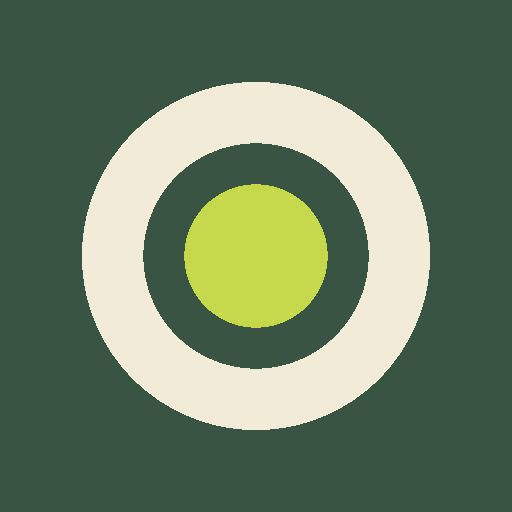
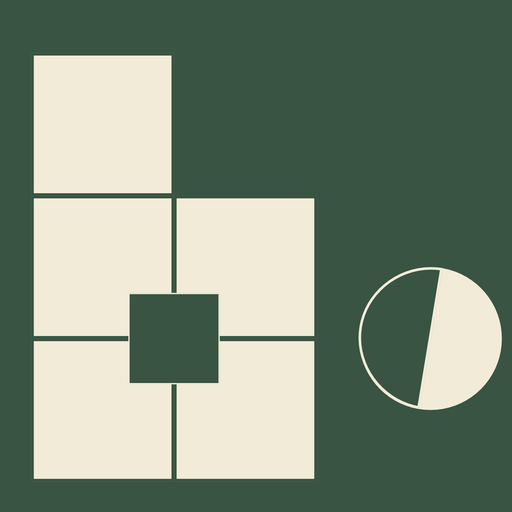
fourth build

diff --git a/js/results.js b/js/results.js
@@ -2,7 +2,7 @@
 (()=>{
 const S=Store,uid=()=>Math.random().toString(36).slice(2,8);
 const esc=s=>String(s??'').replace(/[&<>"]/g,c=>({'&':'&amp;','<':'&lt;','>':'&gt;','"':'&quot;'}[c]));
-const head=(t,s)=>`<h1>${t}</h1><p class="sub">${s}</p>`;
+const head=t=>`<h1>${t}</h1>`;
 const pct=(a,b)=>b?Math.round(a/b*1000)/10:0,f1=x=>Math.round(x*10)/10;
 let tab='overview',cf='';const cn=c=>(S.data().classes.find(x=>x.code===c)||{name:'Class '+c}).name;
 const keyed=q=>Sheet.items(q).filter(i=>q.key[i.no]);
@@ -32,23 +32,23 @@ V.R.results=id=>{
  }else{
   o+=`<div class="tbl"><table><tr><th>ID</th><th>Name</th><th>Score</th><th>%</th><th></th></tr>${[...ps].sort((x,y)=>String(x.sid).localeCompare(y.sid)).map(p=>{const s=score(q,p);return `<tr><td class="id">${esc(p.sid)||'-'}</td><td>${esc(who(p.sid)||'Unknown')}</td><td>${s.r}/${s.t}</td><td>${s.p}%</td><td><a class="btn" href="#/paper/${q.id}/${p.id}">Review</a></td></tr>`}).join('')}</table></div>`;
  }
- return h+`<div class="row"><a class="btn" href="#/results">All results</a><button class="btn pri" data-a="addPaper" data-id="${q.id}">Add paper</button><button class="btn" data-a="csv" data-id="${q.id}">Export CSV</button>${cls.length>1?`<select data-r="cf" aria-label="Class filter"><option value="">All classes</option>${cls.map(c=>`<option value="${c}"${c===cfv?' selected':''}>${esc(cn(c))}</option>`).join('')}</select>`:''}</div><div class="row">${T('overview','Overview')}${T('item','By item')}${T('student','By student')}</div>`+o;
+ return h+`<div class="row"><button class="btn pri" data-a="addPaper" data-id="${q.id}">Add paper</button><button class="btn" data-a="csv" data-id="${q.id}">Export CSV</button>${cls.length>1?`<select data-r="cf" aria-label="Class filter"><option value="">All classes</option>${cls.map(c=>`<option value="${c}"${c===cfv?' selected':''}>${esc(cn(c))}</option>`).join('')}</select>`:''}</div><div class="row">${T('overview','Overview')}${T('item','By item')}${T('student','By student')}</div>`+o;
 };
 
 V.R.paper=(qid,pid)=>{
  const q=S.quiz(qid),p=q&&(q.papers||[]).find(x=>x.id===pid);if(!p)return'<p>Paper not found.</p>';
  const s=score(q,p),nm=who(p.sid);
  const it=i=>{const k=q.key[i.no];return `<div class="it${p.multi&&p.multi[i.no]?' multi':''}"><b>${i.no}</b>${Array.from({length:i.opts},(_,j)=>{const l=Sheet.lab(i.tf,j),on=p.answers[i.no]===l;return `<button class="o${on?(k?(l===k?' ok':' bad'):' on'):''}${k===l?' key':''}" data-a="ans" data-q="${q.id}" data-id="${p.id}" data-n="${i.no}" data-l="${l}">${l}</button>`}).join('')}</div>`};
- return `<a href="#/results/${q.id}">Back to results</a>`+head(`${s.r} / ${s.t} = ${s.p}%`,esc(nm||(p.sid?'ID not in roster':'No ID yet')))+(p.crop?`<img class="crop" alt="Handwritten name" src="${p.crop}">`:'')+
+ return `<a href="#/quiz/${q.id}/results">Back to results</a>`+head(`${s.r} / ${s.t} = ${s.p}%`,esc(nm||(p.sid?'ID not in roster':'No ID yet')))+(p.crop?`<img class="crop" alt="Handwritten name" src="${p.crop}">`:'')+
  `<div class="row"><label>Student ID <input data-p="sid" data-q="${q.id}" data-id="${p.id}" value="${esc(p.sid)}" placeholder="XX-XX" size="6"></label><button class="btn del" data-a="delPaper" data-q="${q.id}" data-id="${p.id}">Delete paper</button></div>
- <p class="sub">Click a bubble to change an answer. Green = correct, red = wrong, thick ring = the key, yellow row = more than one bubble was marked.</p><div class="items">${Sheet.items(q).map(it).join('')}</div>`;
+ <p class="sub">Tap a bubble to change it. Green correct, red wrong, ring = key, yellow = multiple marks.</p><div class="items">${Sheet.items(q).map(it).join('')}</div>`;
 };
 
 Object.assign(V.A,{
  tab:d=>{tab=d.t;App.render()},
  addPaper:d=>{const q=S.quiz(d.id),p={id:uid(),sid:'',answers:{},at:Date.now()};(q.papers=q.papers||[]).push(p);S.save();location.hash=`#/paper/${q.id}/${p.id}`},
  ans:d=>{const p=S.quiz(d.q).papers.find(x=>x.id===d.id);if(p.answers[d.n]===d.l)delete p.answers[d.n];else p.answers[d.n]=d.l;S.save();const y=scrollY;App.render();scrollTo(0,y)},
- delPaper:d=>{if(!confirm('Delete this paper?'))return;const q=S.quiz(d.q);q.papers=q.papers.filter(x=>x.id!==d.id);S.save();location.hash='#/results/'+q.id},
+ delPaper:d=>{if(!confirm('Delete this paper?'))return;const q=S.quiz(d.q);q.papers=q.papers.filter(x=>x.id!==d.id);S.save();location.hash='#/quiz/'+q.id+'/results'},
  csv:d=>{const q=S.quiz(d.id),its=Sheet.items(q),rows=[['ID','Name','Score','Total','Percent',...its.map(i=>'Q'+i.no)],['','','','','Key',...its.map(i=>q.key[i.no]||'')]];
   (q.papers||[]).forEach(p=>{const s=score(q,p);rows.push([p.sid,who(p.sid)||'',s.r,s.t,s.p,...its.map(i=>p.answers[i.no]||'')])});
   const a=document.createElement('a');a.href=URL.createObjectURL(new Blob(['\ufeff'+rows.map(r=>r.map(c=>`"${String(c).replace(/"/g,'""')}"`).join(',')).join('\r\n')],{type:'text/csv'}));a.download=q.name.replace(/\W+/g,'_')+'.csv';a.click()},
@@ -57,7 +57,7 @@ Object.assign(V.A,{
   const q=S.addQuiz(),L='ABCD';q.name='Sample quiz';q.classId=c.id;q.papers=[];
   for(let i=1;i<=10;i++)q.key[i]=L[Math.random()*4|0];
   c.students.forEach(s=>{const a={};for(let i=1;i<=10;i++)a[i]=Math.random()<.6?q.key[i]:L[Math.random()*4|0];q.papers.push({id:uid(),sid:c.code+'-'+s.no,answers:a,at:Date.now()})});
-  S.save();location.hash='#/results/'+q.id}
+  S.save();location.hash='#/quiz/'+q.id+'/results'}
 });
 
 const prev=V.change;

diff --git a/js/quiz.js b/js/quiz.js
@@ -1,0 +1,58 @@
+// Quiz hub: Edit / Sheets / Scan / Results all live inside each quiz. Also Home, Class and Student pages.
+(()=>{
+const S=Store,E=V.R.quiz,SH=V.R.sheet,SC=V.R.scan,RS=V.R.results;
+const esc=s=>String(s??'').replace(/[&<>"]/g,c=>({'&':'&amp;','<':'&lt;','>':'&gt;','"':'&quot;'}[c]));
+const STEPS=[['edit','Edit'],['sheets','Sheets'],['scan','Scan'],['results','Results']];
+const sc=(q,p)=>{const k=Sheet.items(q).filter(i=>q.key[i.no]),r=k.filter(i=>p.answers[i.no]===q.key[i.no]).length;return{r,t:k.length,v:k.length?r/k.length*100:0}};
+const strip=h=>h.replace(/^<a href="[^"]*">[^<]*<\/a>/,'').replace(/<h1>.*?<\/h1>(<p class="sub">.*?<\/p>)?/s,'');
+
+const hub=q=>{
+ const it=Sheet.items(q),k=it.filter(i=>q.key[i.no]).length,ps=q.papers||[],o=Sheet.opts(q);
+ const mean=ps.length?Math.round(ps.reduce((a,p)=>a+sc(q,p).v,0)/ps.length):0;
+ const c=(s,t,d)=>`<a class="card hub" href="#/quiz/${q.id}/${s}"><b>${t}</b>${d}</a>`;
+ return `<div class="grid hubs">${c('edit','Edit quiz',`${it.length} items, key ${k}/${it.length}`)}${c('sheets','Prepare sheets',`${o.paper}, ${o.copies} ${o.copies>1?'copies':'copy'}`)}${c('scan','Scan papers','Camera or photos')}${c('results','View results',ps.length?`${ps.length} papers, mean ${mean}%`:'No papers yet')}</div>
+ <div class="row"><button class="btn" data-a="dupQuiz" data-id="${q.id}">Duplicate quiz</button></div>`;
+};
+
+V.R.quiz=(id,step)=>{
+ const q=S.quiz(id);if(!q)return'<p>Quiz not found.</p>';
+ let b;
+ if(step==='edit')b=strip(E(id));
+ else if(step==='sheets')b=strip(SH(id));
+ else if(step==='scan'){V.setScan(id);b=strip(SC())}
+ else if(step==='results')b=strip(RS(id));
+ else b=hub(q);
+ const d=QList.first(q);
+ return `<a href="#/quizzes">‹ Quizzes</a><h1>${step?`<a href="#/quiz/${q.id}" class="plain">${esc(q.name)}</a>`:esc(q.name)}</h1>
+ <div class="meta">${esc(QList.cname(q))||'No class'}${d?' · first scanned '+QList.fmt(d):''}</div>
+ ${step?`<div class="steps">${STEPS.map(([s,t])=>`<a class="tg${s===step?' on':''}" href="#/quiz/${q.id}/${s}">${t}</a>`).join('')}</div>`:''}${b}`;
+};
+V.R.sheet=id=>V.R.quiz(id,'sheets');
+V.R.scan=()=>V.R.quizzes();
+V.R.results=id=>id?V.R.quiz(id,'results'):V.R.quizzes();
+
+V.R.home=()=>{
+ const d=S.data(),n=d.classes.reduce((a,c)=>a+c.students.length,0),rec=d.quizzes.slice(0,4);
+ return `<div class="row"><h1 style="margin:0;flex:1">Home</h1><button class="btn pri" data-a="newQuiz">New quiz</button></div>
+ <div class="stats"><div class="card"><b>${d.classes.length}</b>Classes</div><div class="card"><b>${n}</b>Students</div><div class="card"><b>${d.quizzes.length}</b>Quizzes</div></div>
+ ${rec.length?`<h2>Recent quizzes</h2><div class="grid">${rec.map(q=>QList.card(q)).join('')}</div>`:''}`;
+};
+
+const hist=(c,s)=>{const sid=c.code+'-'+s.no,r=[];
+ S.data().quizzes.forEach(q=>(q.papers||[]).forEach(p=>{if(p.sid===sid)r.push({q,p,s:sc(q,p),at:p.at})}));
+ return r.sort((a,b)=>b.at-a.at)};
+const avg=h=>h.length?Math.round(h.reduce((a,x)=>a+x.s.v,0)/h.length):'-';
+V.R.class=id=>{
+ const c=S.cls(id);if(!c)return'<p>Class not found.</p>';
+ return `<a href="#/classes">‹ Classes</a><h1>${esc(c.name)}</h1><div class="meta">Class code ${c.code}</div>
+ <div class="row"><button class="btn pri" data-a="addStudent" data-id="${c.id}">Add student</button><button class="btn del" data-a="delClass" data-id="${c.id}">Delete class</button></div>
+ <div class="tbl"><table><tr><th>ID</th><th>Name</th><th>Quizzes</th><th>Avg %</th><th></th></tr>${c.students.map(s=>{const h=hist(c,s);
+  return `<tr><td class="id">${c.code}-${s.no}</td><td><a href="#/student/${c.id}/${s.id}">${esc(s.name)}</a></td><td>${h.length}</td><td>${avg(h)}</td><td><button class="btn del" data-a="delStudent" data-id="${c.id}" data-s="${s.id}">Remove</button></td></tr>`}).join('')}</table></div>`;
+};
+V.R.student=(cid,sid)=>{
+ const c=S.cls(cid),s=c&&c.students.find(x=>x.id===sid);if(!s)return'<p>Student not found.</p>';
+ const h=hist(c,s);
+ return `<a href="#/class/${c.id}">‹ ${esc(c.name)}</a><h1>${esc(s.name)}</h1><div class="meta">${c.code}-${s.no} · ${h.length} quizzes · average ${avg(h)}%</div>
+ <div class="tbl"><table><tr><th>Quiz</th><th>Date</th><th>Score</th><th></th></tr>${h.map(x=>`<tr><td>${esc(x.q.name)}</td><td>${QList.fmt(x.at)}</td><td>${x.s.r}/${x.s.t} (${Math.round(x.s.v)}%)</td><td><a class="btn" href="#/paper/${x.q.id}/${x.p.id}">Review</a></td></tr>`).join('')||'<tr><td colspan="4">No scanned papers yet.</td></tr>'}</table></div>`;
+};
+})();

diff --git a/js/lists.js b/js/lists.js
@@ -19,10 +19,8 @@ const items=()=>{
  const a=S.data().quizzes.filter(q=>(!k||q.name.toLowerCase().includes(k))&&(!f.tag||(q.tags||[]).includes(f.tag))&&(!f.cls||clsOf(q).some(c=>c.id===f.cls)));
  return a.sort({new:(x,y)=>when(y)-when(x),old:(x,y)=>when(x)-when(y),title:(x,y)=>x.name.localeCompare(y.name),cls:(x,y)=>nm(x).localeCompare(nm(y))||when(y)-when(x)}[f.sort]);
 };
-const card=(q,m)=>{const d=first(q);
- return `<div class="card"><b>${esc(q.name)}</b>${(q.tags||[]).map(t=>`<span class="chip on">${esc(t)}</span>`).join('')}<div>${esc(cname(q))||'No class'}</div>
- <div class="sub" style="margin:0">${d?'First scanned '+fmt(d):q.created?'Created '+fmt(q.created):''} · ${Sheet.items(q).length} items · ${(q.papers||[]).length} papers</div>
- <div class="row">${m==='results'?`<a class="btn pri" href="#/results/${q.id}">Open results</a>`:`<a class="btn" href="#/quiz/${q.id}">Edit</a><a class="btn" href="#/sheet/${q.id}">Sheets</a><button class="btn" data-a="dupQuiz" data-id="${q.id}">Duplicate</button>`}</div></div>`};
+const card=q=>{const d=first(q);
+ return `<a class="card" href="#/quiz/${q.id}"><b>${esc(q.name)}</b>${(q.tags||[]).map(t=>`<span class="chip on">${esc(t)}</span>`).join('')}<div>${esc(cname(q))||'No class'}</div><div class="sub" style="margin:0">${fmt(d||q.created)} · ${Sheet.items(q).length} items · ${(q.papers||[]).length} papers</div></a>`};
 const body=m=>{
  const a=items(),G=[];if(!a.length)return'<p>No quizzes match.</p>';
  a.forEach(q=>{const g=f.sort==='cls'?(cname(q)||'No class'):'';let x=G[G.length-1];if(!x||x.g!==g){x={g,a:[]};G.push(x)}x.a.push(q)});
@@ -34,7 +32,7 @@ const bar=()=>{const o=(v,t,c)=>`<option value="${esc(v)}"${v===c?' selected':''
  <select data-l="cls" aria-label="Class">${o('','All classes',f.cls)}${S.data().classes.map(c=>o(c.id,c.name,f.cls)).join('')}</select>
  <select data-l="sort" aria-label="Sort">${o('new','Newest first',f.sort)}${o('old','Oldest first',f.sort)}${o('title','Title A to Z',f.sort)}${o('cls','Group by class',f.sort)}</select></div>`};
 
-V.R.quizzes=()=>`<h1>Quizzes</h1><p class="sub">Build the answer key, then print sheets.</p><div class="row"><button class="btn pri" data-a="newQuiz">New quiz</button></div>${bar()}<div id="qlist" data-m="quizzes">${body('quizzes')}</div>`;
+V.R.quizzes=()=>`<div class="row"><h1 style="margin:0;flex:1">Quizzes</h1><button class="btn pri" data-a="newQuiz">New quiz</button></div>${bar()}<div id="qlist" data-m="quizzes">${body('quizzes')}</div>`;
 const detail=V.R.results;
 V.R.results=id=>id?detail(id):`<h1>Results</h1><p class="sub">Pick a test to see its scores and item analysis.</p>${bar()}<div id="qlist" data-m="results">${body('results')}</div>`;
 const editor=V.R.quiz;
@@ -42,12 +40,12 @@ V.R.quiz=id=>{const q=S.quiz(id),h=editor(id);if(!q)return h;const on=q.tags||[]
  return h.replace('<div class="sec">',()=>`<div class="row"><span>Tags:</span>${allTags().map(t=>`<button class="tg${on.includes(t)?' on':''}" data-a="tag" data-id="${q.id}" data-t="${esc(t)}">${esc(t)}</button>`).join('')}<button class="btn" data-a="newTag" data-id="${q.id}">+ Custom</button></div><div class="sec">`)};
 
 Object.assign(V.A,{
- dupQuiz:d=>{const q=S.quiz(d.id),c=JSON.parse(JSON.stringify(q));Object.assign(c,{id:uid(),name:q.name+' (copy)',papers:[],created:Date.now()});S.data().quizzes.unshift(c);S.save();App.render()},
+ dupQuiz:d=>{const q=S.quiz(d.id),c=JSON.parse(JSON.stringify(q));Object.assign(c,{id:uid(),name:q.name+' (copy)',papers:[],created:Date.now()});S.data().quizzes.unshift(c);S.save();location.hash='#/quiz/'+c.id+'/edit'},
  tag:d=>{const q=S.quiz(d.id),t=q.tags=q.tags||[],i=t.indexOf(d.t);i<0?t.push(d.t):t.splice(i,1);S.save();const y=scrollY;App.render();scrollTo(0,y)},
  newTag:d=>{const n=(prompt('Tag name')||'').trim().slice(0,24);if(!n)return;const q=S.quiz(d.id);q.tags=q.tags||[];if(!q.tags.includes(n))q.tags.push(n);S.save();App.render()}
 });
 document.getElementById('view').addEventListener('input',ev=>{const e=ev.target;if(e.dataset.l==='q'){f.q=e.value;const L=document.getElementById('qlist');if(L)L.innerHTML=body(L.dataset.m)}});
 const prev=V.change;
 V.change=el=>{if(el.dataset.l){if(el.dataset.l!=='q'){f[el.dataset.l]=el.value;App.render()}return}prev(el)};
-return{label};
+return{label,cname,fmt,first,card};
 })();

diff --git a/js/views.js b/js/views.js
@@ -2,7 +2,7 @@
 const V=(()=>{
 const S=Store,R={};
 const e=s=>String(s??'').replace(/[&<>"]/g,c=>({'&':'&amp;','<':'&lt;','>':'&gt;','"':'&quot;'}[c]));
-const head=(t,s)=>`<h1>${t}</h1><p class="sub">${s}</p>`;
+const head=t=>`<h1>${t}</h1>`;
 const soon=(t,s)=>head(t,s)+`<div class="note">Coming in the next build step. Every sheet already stores each bubble's position for the scanner to read.</div>`;
 const opt=(v,a,t)=>`<option value="${v}"${v==a?' selected':''}>${t}</option>`;
 
@@ -25,20 +25,20 @@ R.quiz=id=>{const q=S.quiz(id);if(!q)return'<p>Quiz not found.</p>';
  ${q.sections.length>1?`<button class="btn del" data-a="delSec" data-id="${q.id}" data-i="${i}">Remove section</button>`:''}</div></div>`;
  const it=x=>`<div class="it"><b>${x.no}</b>${Array.from({length:x.opts},(_,j)=>{const l=Sheet.lab(x.tf,j);return `<button class="o${q.key[x.no]===l?' on':''}" data-a="key" data-id="${q.id}" data-n="${x.no}" data-l="${l}">${l}</button>`}).join('')}</div>`;
  return `<a href="#/quizzes">Back to quizzes</a>`+head('Edit quiz','Changes save automatically.')+
- `<div class="row"><input data-f="name" data-id="${q.id}" value="${e(q.name)}" aria-label="Quiz name"><select data-f="classId" data-id="${q.id}" aria-label="Class"><option value="">No class</option>${S.data().classes.map(c=>opt(c.id,q.classId,e(c.name))).join('')}</select><a class="btn pri" href="#/sheet/${q.id}">Answer sheets</a><button class="btn del" data-a="delQuiz" data-id="${q.id}">Delete</button></div>`+
+ `<div class="row"><input data-f="name" data-id="${q.id}" value="${e(q.name)}" aria-label="Quiz name"><select data-f="classId" data-id="${q.id}" aria-label="Class"><option value="">No class</option>${S.data().classes.map(c=>opt(c.id,q.classId,e(c.name))).join('')}</select><a class="btn pri" href="#/quiz/${q.id}/sheets">Answer sheets</a><button class="btn del" data-a="delQuiz" data-id="${q.id}">Delete</button></div>`+
  q.sections.map(sec).join('')+`<div class="row"><button class="btn" data-a="addSec" data-id="${q.id}">Add section</button></div><h2>Answer key</h2><div class="items">${Sheet.items(q).map(it).join('')}</div>`};
 
 R.scan=()=>soon('Scan papers','Camera scanning, ID reading, and name crops.');
 R.results=()=>soon('Results','Score summaries and item analysis.');
 R.settings=()=>head('Settings','Your data lives in this browser. Back it up regularly.')+
- `<div class="row"><button class="btn" data-a="backup">Download backup</button><label class="btn">Restore from file<input type="file" accept=".json" data-f="restore" hidden></label><button class="btn del" data-a="clear">Clear all data</button></div>`;
+ `<div class="row"><button class="btn" data-a="backup">Download backup</button><label class="btn">Restore from file<input type="file" accept=".json" data-f="restore" hidden></label><button class="btn del" data-a="clear">Clear all data</button></div><p class="sub">Your data lives in this browser. Back it up regularly.</p>`;
 
 const A={
  newClass(){const n=prompt('Class name');if(n&&n.trim()){if(!S.addClass(n.trim()))alert('All 99 class codes are used.');App.render()}},
  addStudent(d){const n=prompt('Student name');if(n&&n.trim()){if(!S.addStudent(S.cls(d.id),n.trim()))alert('This class already has 99 students.');App.render()}},
  delClass(d){if(confirm('Delete this class and its students?')){const D=S.data();D.classes=D.classes.filter(c=>c.id!==d.id);S.save();location.hash='#/classes'}},
  delStudent(d){const c=S.cls(d.id);c.students=c.students.filter(s=>s.id!==d.s);S.save();App.render()},
- newQuiz(){location.hash='#/quiz/'+S.addQuiz().id},
+ newQuiz(){location.hash='#/quiz/'+S.addQuiz().id+'/edit'},
  delQuiz(d){if(confirm('Delete this quiz?')){const D=S.data();D.quizzes=D.quizzes.filter(q=>q.id!==d.id);S.save();location.hash='#/quizzes'}},
  addSec(d){S.quiz(d.id).sections.push({type:'mcq',count:10,opts:4});S.save();App.render()},
  delSec(d){S.quiz(d.id).sections.splice(+d.i,1);S.save();App.render()},

diff --git a/js/scanui.js b/js/scanui.js
@@ -43,7 +43,8 @@ async function start(){
  $('[data-a=scanCam]').textContent='Stop camera';say('Looking for the four corner squares...');
 }
 function stop(){clearInterval(timer);timer=null;if(stream){stream.getTracks().forEach(t=>t.stop());stream=null}}
-addEventListener('hashchange',()=>{if(!location.hash.startsWith('#/scan'))stop()});
+addEventListener('hashchange',()=>{if(!/\/scan$/.test(location.hash))stop()});
+V.setScan=id=>{if(qid!==id){stop();qid=id}};
 
 V.R.scan=()=>{
  const qs=S.data().quizzes,q=S.quiz(qid)||qs[0];qid=q?q.id:'';setTimeout(renderSess,0);
@@ -54,8 +55,8 @@ V.R.scan=()=>{
  if(lay.pages.length>1)w.push('This quiz needs more than one page. Scanning supports single-page sheets for now.');
  if(o.per===2)w.push('2 sheets per paper: cut the sheets apart on the dashed line before scanning.');
  return h+(w.length?`<div class="note">${w.join('<br>')}</div>`:'')+
- `<div class="row"><select data-r="scanquiz" aria-label="Quiz">${qs.map(x=>`<option value="${x.id}"${x.id===q.id?' selected':''}>${esc(QList.label(x))}</option>`).join('')}</select><label class="f row"><input type="checkbox" id="scauto" checked> Auto-capture</label></div>
- <div class="cam"><video id="scvid" playsinline muted></video><canvas id="scov"></canvas></div><p id="scstat" class="sub">Camera is off.</p>
+ `<div class="row"><label class="f row"><input type="checkbox" id="scauto" checked> Auto-capture</label></div>
+ <div class="cam"><video id="scvid" playsinline muted></video><canvas id="scov"></canvas></div><p id="scstat" class="sub">Camera is off. Hold the sheet upright with all four corner squares in view.</p>
  <div class="row"><button class="btn pri" data-a="scanCam">Start camera</button><button class="btn" data-a="scanNow">Capture now</button><label class="btn">Upload photos<input type="file" accept="image/*" multiple hidden data-r="scanfile"></label></div>
  <h2>This session</h2><div id="scsess"></div>`;
 };

diff --git a/js/splash.js b/js/splash.js
@@ -1,0 +1,24 @@
+// Opening animation: the ring-and-dot app icon morphs into the Bubblify logo (once per session; tap to skip).
+(()=>{
+ if(sessionStorage.getItem('bubblify.splash')||matchMedia('(prefers-reduced-motion: reduce)').matches)return;
+ sessionStorage.setItem('bubblify.splash','1');
+ const sq=[[262,326,418,418],[262,758,418,416],[694,758,416,416],[262,1190,418,416],[694,1190,416,416]],d=document.createElement('div');
+ d.id='splash';
+ d.innerHTML=`<svg viewBox="200 260 1530 1410" aria-hidden="true">${sq.map(([x,y,w,h])=>`<rect class="sq" x="${x}" y="${y}" width="${w}" height="${h}" fill="#F2EBD8"/>`).join('')}<rect class="sq" x="551" y="1047" width="272" height="270" fill="#395442" stroke="#F2EBD8" stroke-width="3"/><path id="sh" d="M1492 970A215 215 0 0 1 1424 1390Z" fill="#F2EBD8" opacity="0"/><circle id="sr" cx="967" cy="965" r="95" fill="none" stroke="#F2EBD8" stroke-width="40"/><circle id="sd" cx="967" cy="965" r="48" fill="#C6D94C"/></svg>`;
+ document.body.appendChild(d);
+ const $=s=>d.querySelector(s),r=$('#sr'),o=$('#sd'),h=$('#sh'),q=[...d.querySelectorAll('.sq')];
+ const L=(a,b,t)=>a+(b-a)*t,E=x=>x<=0?0:x>=1?1:x*x*(3-2*x),t0=performance.now();
+ const frame=now=>{
+  if(!d.isConnected)return;
+  const t=now-t0,a=E(t/300),m=E((t-550)/700),x=L(967,1460,m),y=L(965,1181,m);
+  r.setAttribute('cx',x);r.setAttribute('cy',y);r.setAttribute('r',L(95,214,m));r.setAttribute('stroke-width',L(40,6,m));
+  o.setAttribute('cx',x);o.setAttribute('cy',y);o.setAttribute('r',L(48,0,m));
+  r.style.opacity=o.style.opacity=a;h.setAttribute('opacity',m);
+  q.forEach((e,i)=>{const s=E((t-700-i*90)/380);e.style.opacity=s;e.style.transform=`scale(${.85+.15*s})`});
+  if(t>1900)d.classList.add('out');
+  if(t>2250){d.remove();return}
+  requestAnimationFrame(frame);
+ };
+ d.onclick=()=>d.remove();
+ requestAnimationFrame(frame);
+})();

diff --git a/js/sheetui.js b/js/sheetui.js
@@ -9,7 +9,7 @@ V.R.sheet=id=>{
  const q=S.quiz(id);if(!q)return'<p>Quiz not found.</p>';
  const k=Sheet.papers(q),o=k.o,land=o.per===2;
  return `<a href="#/quiz/${q.id}">Back to quiz</a><h1>Answer sheets</h1><p class="sub">${esc(q.name)}</p>
- <div class="note">Print at 100% (Actual size). Bubble positions depend on true-size output.</div>
+ 
  <div class="split"><div class="panel">
  ${f('Paper',sel(o,'paper',[['A4','A4 (210 x 297 mm)'],['Letter','Letter (8.5 x 11 in)'],['Legal','Legal (8.5 x 13 in)']]))}
  ${f('Sheets per paper',sel(o,'per',[[1,'1'],[2,'2 (landscape)']]))}
@@ -20,7 +20,7 @@ V.R.sheet=id=>{
  ${chk(o,'name','Show name field')}${chk(o,'calib','Calibration bar')}
  ${f('Instructions',`<textarea rows="3" data-o="instr">${esc(o.instr)}</textarea>`)}
  <p class="sub">Columns: ${k.lay.cols} (max ${k.lay.max} fit). ${k.lay.pages.length} page(s) per sheet, ${k.svgs.length} paper(s) to print.</p></div>
- <div><div class="row"><button class="btn pri" data-a="print" data-id="${q.id}">Print or save as PDF</button></div>
+ <div><div class="row"><button class="btn pri" data-a="print" data-id="${q.id}">Print or save as PDF</button><span class="sub" style="margin:0">Print at 100% / Actual size</span></div>
  <div class="pages">${k.svgs.map(s=>`<div class="pv${land?' land':''}">${s}</div>`).join('')}</div></div></div>`;
 };
 

diff --git a/index.html b/index.html
@@ -2,12 +2,12 @@
 <html lang="en"><head><meta charset="utf-8">
 <meta name="viewport" content="width=device-width,initial-scale=1,viewport-fit=cover">
 <title>Bubblify</title>
-<link rel="manifest" href="manifest.webmanifest"><meta name="theme-color" content="#395442"><link rel="icon" href="icon-192.png">
+<link rel="manifest" href="manifest.webmanifest"><meta name="theme-color" content="#395442"><link rel="icon" href="icon-192.png"><link rel="apple-touch-icon" href="icon-192.png">
 <link rel="stylesheet" href="css/styles.css">
 </head><body>
 <div class="app">
 <nav><div class="brand">Bubblify</div>
-<a href="#/">Home</a><a href="#/classes">Classes</a><a href="#/quizzes">Quizzes</a><a href="#/scan">Scan</a><a href="#/results">Results</a><a href="#/settings">Settings</a></nav>
+<a href="#/">Home</a><a href="#/classes">Classes</a><a href="#/quizzes">Quizzes</a><a href="#/settings">Settings</a></nav>
 <main id="view"></main>
 </div>
 <script src="js/store.js"></script>
@@ -18,5 +18,7 @@
 <script src="js/lists.js"></script>
 <script src="js/scanner.js"></script>
 <script src="js/scanui.js"></script>
+<script src="js/quiz.js"></script>
 <script src="js/app.js"></script>
+<script src="js/splash.js"></script>
 </body></html>

diff --git a/sw.js b/sw.js
@@ -1,5 +1,5 @@
 // Network first, cache fallback: fresh files when online, full offline use otherwise.
-const C='bubblify-v3',F=['./','index.html','css/styles.css','js/store.js','js/sheet.js','js/views.js','js/sheetui.js','js/results.js','js/lists.js','js/scanner.js','js/scanui.js','js/app.js','fonts/limelight-latin-400-normal.woff2','fonts/nova-mono-latin-400-normal.woff2','manifest.webmanifest','icon-192.png'];
+const C='bubblify-v4',F=['./','index.html','css/styles.css','js/store.js','js/sheet.js','js/views.js','js/sheetui.js','js/results.js','js/lists.js','js/quiz.js','js/splash.js','js/scanner.js','js/scanui.js','js/app.js','fonts/limelight-latin-400-normal.woff2','fonts/nova-mono-latin-400-normal.woff2','manifest.webmanifest','icon-192.png'];
 self.addEventListener('install',e=>e.waitUntil(caches.open(C).then(c=>c.addAll(F))));
 self.addEventListener('activate',e=>e.waitUntil(caches.keys().then(k=>Promise.all(k.filter(x=>x!==C).map(x=>caches.delete(x))))));
 self.addEventListener('fetch',e=>{if(e.request.method!=='GET')return;e.respondWith(fetch(e.request).then(r=>{const c=r.clone();caches.open(C).then(x=>x.put(e.request,c));return r}).catch(()=>caches.match(e.request)))});

diff --git a/css/styles.css b/css/styles.css
@@ -84,3 +84,14 @@ textarea{font:inherit;color:var(--ink);background:var(--bg);border:var(--ln);pad
  table{display:block;overflow-x:auto}
  th,td{padding:6px}
 }
+h1{margin:6px 0 4px;font-size:28px}.sub{margin:0 0 12px}main{padding:20px 24px}
+.meta{color:var(--sage-d);margin:0 0 10px;font-size:14px}
+a.card{display:block;color:inherit;text-decoration:none}a.card:hover{background:#d6e2b6}
+a.plain{color:inherit;text-decoration:none}
+.steps{display:flex;gap:6px;margin:8px 0 14px}
+.steps .tg{flex:1;text-align:center;text-decoration:none;padding:8px 6px}
+.hubs{grid-template-columns:repeat(2,1fr)}.hub b{font-size:22px}
+#splash{position:fixed;inset:0;z-index:100;background:#395442;display:flex;align-items:center;justify-content:center;transition:opacity .35s}
+#splash.out{opacity:0}#splash svg{width:min(80vw,440px);height:auto}
+.sq{transform-box:fill-box;transform-origin:center;opacity:0}
+@media(max-width:700px){main{padding:12px 14px 28px}.hubs{grid-template-columns:repeat(2,1fr)}.steps .tg{font-size:14px;min-height:44px;display:flex;align-items:center;justify-content:center}}

diff --git a/js/app.js b/js/app.js
@@ -3,7 +3,7 @@ const App={
  render(){
   const [p,...a]=location.hash.replace(/^#\/?/,'').split('/'),name=V.R[p]?p:'home';
   document.getElementById('view').innerHTML=V.R[name](...a);
-  const on={class:'classes',quiz:'quizzes',sheet:'quizzes',paper:'results',home:''}[name]??name;
+  const on={class:'classes',student:'classes',quiz:'quizzes',sheet:'quizzes',paper:'quizzes',home:''}[name]??name;
   document.querySelectorAll('nav a').forEach(a=>a.classList.toggle('on',a.getAttribute('href')==='#/'+on));
   scrollTo(0,0);
  }
